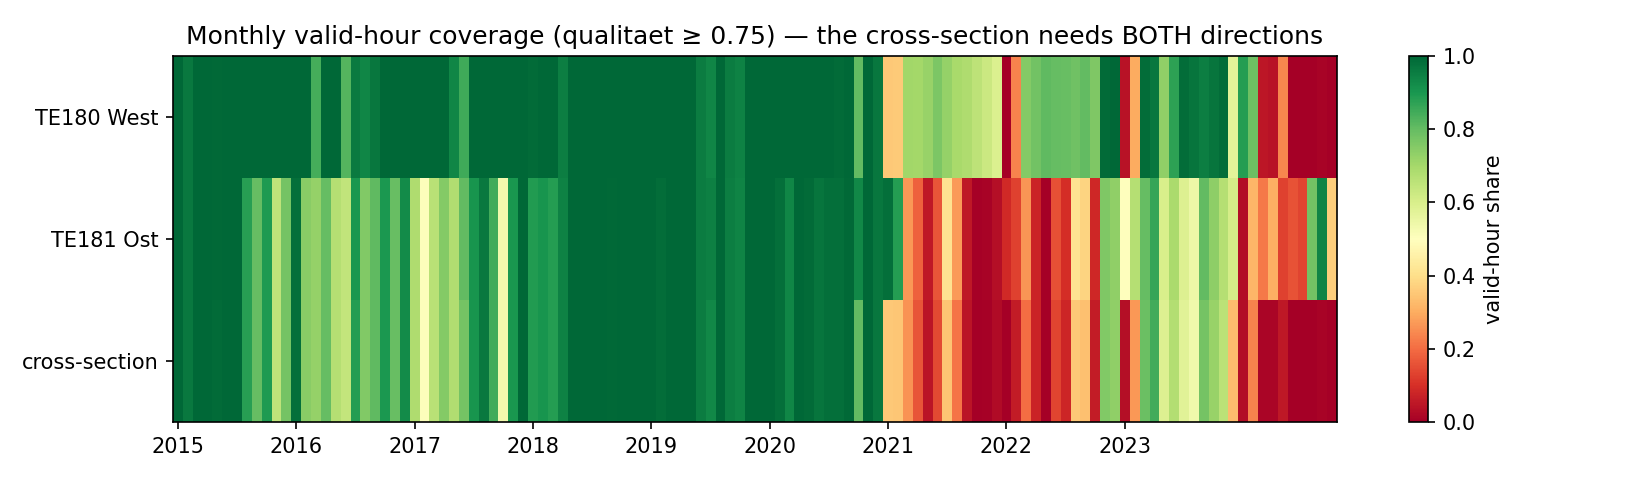
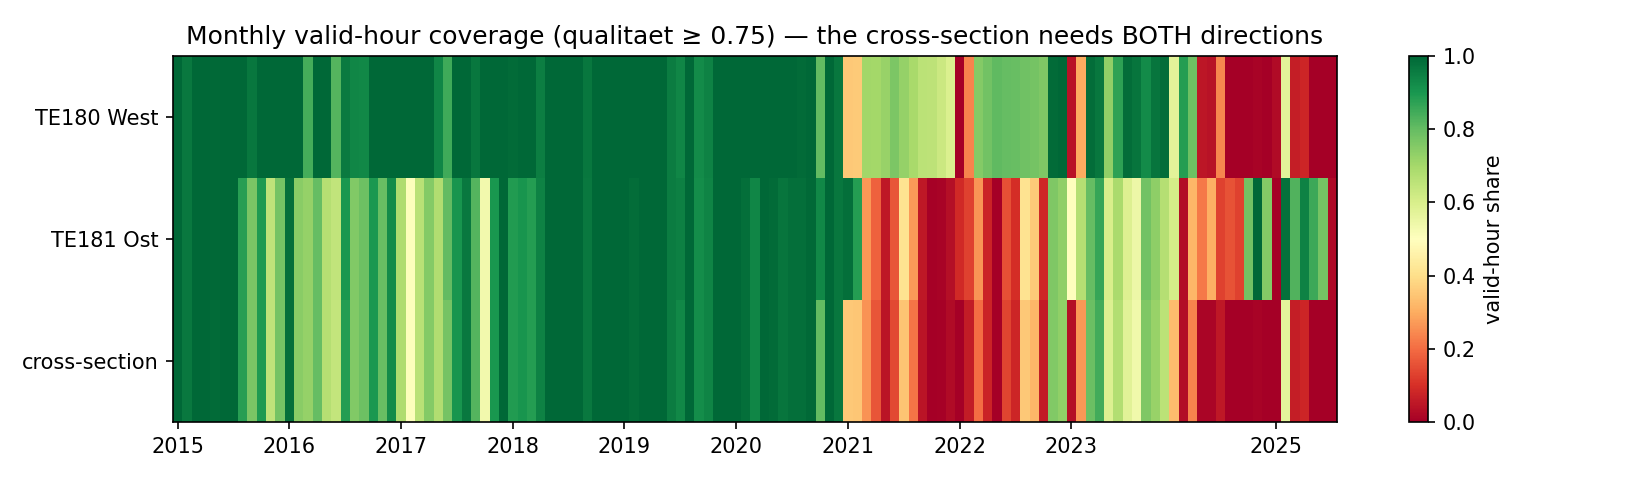
torstrasse-peak-hour: marathon correction + latest FROST SensorThings tail
The Berlin Marathon runs ALONG Torstraße (~km 7) — on race Sundays the
closed street's infrared detectors count the RUNNERS (near-zero closure
hour, then 1,000-2,400 'Kfz/h' at 3-10 km/h runner pace or 69-84 km/h
misreads; signature on every race Sunday 2015-2023). All marathon dates
are now excluded: 2018's apparent annual max (2,275) was runners, not
detour traffic; corrected q1 2018 = 1,739. q30/q50 move <0.2% — the
design-hour metrics were already robust to it.

Also extends the series past the blob archive with the frozen TEU FROST
SensorThings hourly MQ streams (fetch_frost.py, un-QA'd, 2024-11 ->
2025-07; TE180 dies 2025-04-13, TE181 2025-07-02 = end of the series).
2025 row added (10% coverage, flagged unusable); blob rows win on
overlap and QA-rejected hours are not resurrected.

te180-deepdive: note that its 2023-09-24 artefact cluster was marathon
Sunday too.

diff --git a/berlin-traffic-groundwork/torstrasse-peak-hour/fetch_frost.py b/berlin-traffic-groundwork/torstrasse-peak-hour/fetch_frost.py
@@ -1,0 +1,119 @@
+#!/usr/bin/env python3
+"""Fetch the LATEST hourly Messquerschnitt observations for TE180/TE181 from
+the legacy TEU SensorThings (FROST) API — the blob archive ends 2024-12, the
+FROST server carries observations into 2025 (TE180 to ~2025-04-13, TE181 to
+~2025-07-02; the TEU network is frozen, so this is the end of the series).
+
+Pulls 'Anzahl KFZ Stunde - Messquerschnitt', the matching speed stream and
+'Anzahl LKW Stunde - Messquerschnitt' from 2024-11-01 on (slightly overlapping
+the blob so analyze.py can prefer the QA-gated blob rows), converts UTC
+interval stamps to Berlin local date/hour, and writes
+data/torstrasse_frost_latest.csv in the same schema as the blob extract.
+
+NOTE: FROST observations carry NO 'qualitaet' field; rows are written with
+qualitaet = 1.0 and must be treated as un-QA'd (see README caveats).
+
+Gentle + idempotent: sequential, paged ($top=1000), ~0.4 s between requests;
+exits if the output exists (--force to refetch).
+"""
+
+import csv
+import json
+import sys
+import time
+import urllib.parse
+import urllib.request
+from pathlib import Path
+from zoneinfo import ZoneInfo
+
+BASE = "https://api.viz.berlin.de/FROST-Server-TEU/v1.1"
+SINCE = "2024-11-01T00:00:00Z"
+THINGS = {"TE180": 80, "TE181": 81}
+STREAMS = {  # column -> datastream name (note the double space in the API)
+    "q_kfz_mq_hr": "Anzahl KFZ Stunde -  Messquerschnitt",
+    "v_kfz_mq_hr": "Geschwindigkeit KFZ Stunde -  Messquerschnitt",
+    "q_lkw_mq_hr": "Anzahl LKW Stunde -  Messquerschnitt",
+}
+HERE = Path(__file__).parent
+OUT = HERE / "data" / "torstrasse_frost_latest.csv"
+PAUSE = 0.4
+BERLIN = ZoneInfo("Europe/Berlin")
+FIELDS = ["mq_name", "tag", "stunde", "qualitaet", "q_kfz_mq_hr",
+          "v_kfz_mq_hr", "q_pkw_mq_hr", "v_pkw_mq_hr", "q_lkw_mq_hr",
+          "v_lkw_mq_hr"]
+
+
+def get_json(url: str) -> dict:
+    for attempt in range(5):
+        try:
+            with urllib.request.urlopen(url, timeout=60) as r:
+                return json.load(r)
+        except Exception as e:  # noqa: BLE001
+            wait = 2 ** attempt * 5
+            print(f"  {type(e).__name__}: {e}, backing off {wait}s", flush=True)
+            time.sleep(wait)
+    raise RuntimeError(f"giving up on {url}")
+
+
+def find_datastream(thing_id: int, name: str) -> int:
+    q = urllib.parse.quote(f"name eq '{name}'")
+    d = get_json(f"{BASE}/Things({thing_id})/Datastreams?$filter={q}"
+                 f"&$select=@iot.id,name")
+    if not d["value"]:
+        raise RuntimeError(f"no datastream {name!r} on Thing({thing_id})")
+    return d["value"][0]["@iot.id"]
+
+
+def fetch_stream(ds_id: int) -> dict:
+    """{UTC interval-start ISO: result} with NaN-placeholder rows dropped."""
+    out = {}
+    url = (f"{BASE}/Datastreams({ds_id})/Observations?"
+           f"$filter=phenomenonTime%20ge%20{SINCE}"
+           f"&$orderby=phenomenonTime&$top=1000"
+           f"&$select=phenomenonTime,result")
+    while url:
+        d = get_json(url)
+        for o in d["value"]:
+            start = o["phenomenonTime"].split("/")[0]
+            r = o["result"]
+            if r is not None and out.get(start) is None:
+                out[start] = r
+            out.setdefault(start, r)
+        url = d.get("@iot.nextLink")
+        time.sleep(PAUSE)
+    return out
+
+
+def main() -> None:
+    if OUT.exists() and "--force" not in sys.argv:
+        print(f"{OUT} exists - nothing to do (--force to refetch)")
+        return
+    from datetime import datetime
+
+    rows = {}
+    for mq, tid in THINGS.items():
+        for col, name in STREAMS.items():
+            ds = find_datastream(tid, name)
+            obs = fetch_stream(ds)
+            print(f"{mq} {col}: datastream {ds}, {len(obs)} hours", flush=True)
+            for iso, val in obs.items():
+                loc = datetime.fromisoformat(iso.replace("Z", "+00:00")) \
+                    .astimezone(BERLIN)
+                key = (mq, loc.strftime("%d.%m.%Y"), loc.hour)
+                rows.setdefault(key, {})[col] = val
+            time.sleep(PAUSE)
+
+    with OUT.open("w", newline="") as fh:
+        w = csv.DictWriter(fh, fieldnames=FIELDS, delimiter=";")
+        w.writeheader()
+        for (mq, tag, stunde), vals in sorted(rows.items()):
+            if vals.get("q_kfz_mq_hr") is None:
+                continue                      # placeholder-only hour
+            w.writerow({"mq_name": mq, "tag": tag, "stunde": stunde,
+                        "qualitaet": 1.0, **vals})
+    n = sum(1 for _ in OUT.open()) - 1
+    print(f"wrote {OUT} ({n} rows)")
+
+
+if __name__ == "__main__":
+    main()

diff --git a/berlin-traffic-groundwork/torstrasse-peak-hour/analyze.py b/berlin-traffic-groundwork/torstrasse-peak-hour/analyze.py
@@ -41,6 +41,16 @@ REF_YEAR = 2019           # last pre-COVID year, both directions ~98 %
 BANDS = [(0, 400), (400, 1000), (800, 1800), (1600, 2600), (2600, 3400)]
 BAND_LABELS = ["< 400", "400-1,000", "800-1,800", "1,600-2,600", "> 2,600"]
 
+# The BMW Berlin-Marathon runs ALONG Torstrasse (Reinhardtstr. -> Torstr. ->
+# Karl-Marx-Allee, ~km 7). On race Sundays the street is closed and the
+# infrared detectors count RUNNERS (counts at 3-10 km/h "speeds", or with
+# absurd 69-84 km/h misreads, after a near-zero closure hour) -> the whole
+# day is invalid as vehicle data. 2020 was cancelled (COVID).
+MARATHON_SUNDAYS = pd.to_datetime([
+    "2015-09-27", "2016-09-25", "2017-09-24", "2018-09-16", "2019-09-29",
+    "2021-09-26", "2022-09-25", "2023-09-24", "2024-09-29", "2025-09-21",
+])
+
 
 def berlin_holidays(year: int) -> set:
     e = easter(year)
@@ -65,10 +75,23 @@ def berlin_holidays(year: int) -> set:
 def load() -> pd.DataFrame:
     df = pd.read_csv(HERE / "data" / "torstrasse_mq_hr.csv", sep=";")
     df["date"] = pd.to_datetime(df["tag"], format="%d.%m.%Y")
+    key = ["mq_name", "date", "stunde"]
+    # keys the QA'd archive has SEEN (incl. hours its QA rejected) — the
+    # un-QA'd FROST tail must not resurrect QA-rejected hours
+    seen = set(map(tuple, df[key].itertuples(index=False)))
     df = df[(df["qualitaet"] >= QUALITY_MIN) & df["q_kfz_mq_hr"].notna()]
     # collapse rare duplicate (mq,date,hour) rows, keep the better-quality one
     df = (df.sort_values("qualitaet")
-            .drop_duplicates(["mq_name", "date", "stunde"], keep="last"))
+            .drop_duplicates(key, keep="last"))
+    # append the un-QA'd FROST tail (2024-11 ..; see fetch_frost.py) only for
+    # (mq, date, hour) slots the blob archive never covered
+    frost_csv = HERE / "data" / "torstrasse_frost_latest.csv"
+    if frost_csv.exists():
+        fr = pd.read_csv(frost_csv, sep=";")
+        fr["date"] = pd.to_datetime(fr["tag"], format="%d.%m.%Y")
+        fr = fr[fr["q_kfz_mq_hr"].notna()]
+        fr = fr[~fr[key].apply(tuple, axis=1).isin(seen)]
+        df = pd.concat([df, fr], ignore_index=True)
     kfz = df.pivot(index=["date", "stunde"], columns="mq_name",
                    values="q_kfz_mq_hr")
     lkw = df.pivot(index=["date", "stunde"], columns="mq_name",
@@ -83,10 +106,11 @@ def load() -> pd.DataFrame:
     # flagged contaminated via the scrub share and excluded from year metrics.
     wide["cross_raw"] = wide["west"] + wide["ost"]      # pre-scrub, for fig 03
     scrub = {}
+    marathon = wide["date"].isin(MARATHON_SUNDAYS)
     for c in ("west", "ost"):
-        bad = wide[c] > SCRUB_MAX
+        bad = wide[c] > SCRUB_MAX            # artefact scrub (counted)
         scrub[c] = wide.loc[bad].groupby("year")[c].size().to_dict()
-        wide.loc[bad, c] = np.nan
+        wide.loc[bad | marathon, c] = np.nan  # marathon Sundays: runners, not Kfz
     wide["cross"] = wide["west"] + wide["ost"]          # NaN unless both valid
     wide["dow"] = wide["date"].dt.dayofweek
     hols = set().union(*(berlin_holidays(y) for y in range(2015, 2025)))

diff --git a/berlin-traffic-groundwork/torstrasse-peak-hour/README.md b/berlin-traffic-groundwork/torstrasse-peak-hour/README.md
@@ -17,8 +17,9 @@ defining how to measure it, and that at least **nine operationalisations**
 circulate (n-th-highest hour, standardised counts, DTV shortcuts, …). Here we
 compute **all of them on one real street**: Torstraße (Berlin-Mitte), using
 the **TE180 (West) + TE181 (Ost)** lane-detector cross-sections as a synthetic
-RASt cross-section, hourly 2015-2024, plus **30 years of official DTV/DTVw map
-editions (1993-2023)** for the shortcut definitions.
+RASt cross-section, hourly 2015 → mid-2025 (blob archive + the frozen TEU
+SensorThings tail), plus **30 years of official DTV/DTVw map editions
+(1993-2023)** for the shortcut definitions.
 
 For the reference year **2019** (98 % coverage, pre-COVID, both directions
 clean), every *measured* definition lands in a tight cluster:
@@ -51,22 +52,31 @@ clean), every *measured* definition lands in a tight cluster:
 | | |
 |---|---|
 | Directional MQs | `TE180` Torstraße Haus 199, **Richtung West** (2 lanes) · `TE181` Haus 178, **Richtung Ost** (2 lanes) — ~170 m apart, two side streets in between |
-| Source | blob archive `…/alte_qualitaetssicherung/Messquerschnitte/mq_hr_YYYY_MM.csv.gz`, hourly, local time; validity gate `qualitaet ≥ 0.75` (archive convention) |
+| Source | blob archive `…/alte_qualitaetssicherung/Messquerschnitte/mq_hr_YYYY_MM.csv.gz`, hourly, local time; validity gate `qualitaet ≥ 0.75` (archive convention) — extended past 2024-12 with the **frozen TEU SensorThings (FROST) hourly MQ streams** (`fetch_frost.py`; un-QA'd, only for slots the archive never covered) |
 | Cross-section rule | `cross = west + ost`, **only for hours where both directions are valid** — RASt 06's default reference is the both-directions cross-section |
-| Window | 2015-01 → 2024-12; **usable for year metrics: 2018, 2019, 2020** (see below) |
+| Window | 2015-01 → 2025-07 (TE180's last observation 2025-04-13, TE181's 2025-07-02 — the TEU network is being decommissioned, so this is the **end of the series**); **usable for year metrics: 2018, 2019, 2020** (see below) |
 | Vehicle class | `q_kfz` (all motor vehicles) — RASt-faithful, unlike the PKW-only [`te180-deepdive`](../te180-deepdive/) |
 
-Two data-quality interventions, both visible in the figures:
+Three data-quality interventions, all visible in the figures:
 
 1. **Plausibility scrub.** Directional hours > 1,300 Kfz/h are sensor
    artefacts (clean-period envelope max ≈ 1,230): the flagged hours show
    3,400-4,100 Kfz/h at 8-12 km/h crawl speeds — including 3,835 Kfz/h at
    **4 a.m.** They are set to missing (counts per year in `summary.json`).
-2. **2015-2017 excluded as contaminated.** TE181's *bulk* is inflated in
+2. **Marathon Sundays excluded.** The BMW Berlin-Marathon course runs
+   **along Torstraße** (Reinhardtstr. → Torstraße → Karl-Marx-Allee, ~km 7).
+   On race Sundays the closed street's infrared detectors **count the
+   runners**: a near-zero closure hour (e.g. 26 Kfz at 08 h on 2018-09-16),
+   then 1,000-2,400 "Kfz/h" from ~09:30 as the field passes — at runner-pace
+   "speeds" of 3-10 km/h, or with absurd 69-84 km/h misreads. The signature
+   recurs on **every** race Sunday 2015-2023 in the data, so all marathon
+   dates are dropped wholesale (2020 was cancelled). Without this, 2018's
+   "annual maximum" would be 2,275 runner-counted Kfz/h.
+3. **2015-2017 excluded as contaminated.** TE181's *bulk* is inflated in
    those years (6.5-14.8 % of hours above 1,300; median 15-h-hour 2016: 903
    vs ~640 in clean years) — no scrub can repair an inflated bulk, so these
-   years carry no cross-section metrics. 2021-2024 fail on **coverage**
-   instead (TE181 ≤ 28 % valid hours from 2021; TE180 dies mid-2024).
+   years carry no cross-section metrics. 2021-2025 fail on **coverage**
+   instead (TE181 ≤ 28 % valid hours from 2021; TE180 dies April 2025).
 
 ![coverage](figures/01_coverage.png)
 
@@ -112,13 +122,14 @@ The flat top has a second consequence: missing-data bias is tiny. With ≥ 97 %
 coverage, the coverage-proportional rank correction (`q50_adj`) changes
 nothing (1,557 → 1,557 in 2019).
 
-**q1 is event-driven, which is exactly why the formal definitions skip it:**
-2018's absolute maximum (2,275 Kfz/h, +44 % over q30) is **Sunday 16 Sep
-2018, 10:00 — Berlin-Marathon day**, detour traffic with both directions at
-their annual extreme simultaneously. The 2019 marathon Sunday (29 Sep)
-appears too — as the year's only *scrubbed* hours (2,374 Kfz/h "measured" at
-5 km/h): stop-and-go traffic made the infrared detector miscount. One street,
-two marathons, one valid extreme and one artefact.
+**q1 is noise-dominated, which is exactly why the formal definitions skip
+it:** before the marathon exclusion, 2018's apparent annual maximum
+(2,275 Kfz/h, +44 % over q30) was **Sunday 16 Sep 2018, 10:00 — the detector
+counting the Berlin-Marathon field running down the closed street** (the race
+passes Torstraße at ~km 7). With marathon Sundays removed, every year's q1
+drops to within ~6-10 % of q30 (2018: 1,739, an ordinary pre-Christmas Friday
+afternoon) — the absolute maximum of a *valid* year carries no information the
+30th hour doesn't.
 
 ![definitions by year](figures/04_definitions_by_year.png)
 
@@ -195,9 +206,18 @@ DTV shortcuts jump the fence into 1,600-2,600.
   map-consistent.
 - The MQs cover the main carriageway lanes (HF1/HF2) per direction; TEU
   infrared classification of Lkw is approximate, two-wheelers unreliable.
-- 2015-2017 (TE181 bulk contamination) and 2021-2024 (coverage collapse;
-  TE181 ≤ 28 %, TE180 dead from mid-2024) carry no headline metrics. 2020 is
-  a COVID year — shown, but atypical (everything ~12 % below 2019).
+- 2015-2017 (TE181 bulk contamination) and 2021-2025 (coverage collapse;
+  TE181 ≤ 28 %, TE180 dead from April 2025) carry no headline metrics. 2020
+  is a COVID year — shown, but atypical (everything ~12 % below 2019).
+- **The 2024-11 → 2025-07 tail from the FROST SensorThings API is un-QA'd**
+  (no `qualitaet` field; blob rows win wherever both exist, and FROST never
+  fills hours the blob QA rejected). TE181's late counts look degraded
+  (workday levels far below earlier years, speed stream half-missing), so the
+  2025 row in the table is indicative only — it is also the series' end:
+  Torstraße has no live successor detector (no ThermiCam site).
+- Other street-closing events (half-marathon, demonstrations, roadworks) are
+  *not* systematically excluded — only the marathon's runner-count signature
+  was identified and removed. Residual event noise remains in q1.
 - The archive's historical data was reworked in 2025; numbers may differ from
   older pulls. Berlin holiday calendar (incl. one-offs 2017-10-31, 2020-05-08
   and Frauentag from 2019) is implemented in `analyze.py`.
@@ -209,6 +229,7 @@ DTV shortcuts jump the fence into 1,600-2,600.
 ```bash
 cd berlin-traffic-groundwork/torstrasse-peak-hour
 python3 fetch.py        # 120 monthly MQ bundles, sequential + cached (~8 min)
+python3 fetch_frost.py  # un-QA'd 2024-11..2025-07 tail from the FROST API
 python3 fetch_dtv.py    # 8 WFS queries for the 1993-2023 editions
 python3 analyze.py      # pure function of the cached CSVs -> figures + summary.json
 ```
@@ -222,6 +243,12 @@ needs no network.
 - Detector archive: [DPS — Verkehrsdetektion](https://api.viz.berlin.de/daten/verkehrsdetektion)
   (blob container `verkehrsdetektion`, alte QS Messquerschnitte) ·
   [open-data record](https://daten.berlin.de/datensaetze/verkehrsdetektion-berlin)
+- Latest tail: TEU SensorThings `https://api.viz.berlin.de/FROST-Server-TEU/v1.1`
+  — Things(80)/(81) = TE180/TE181, hourly MQ datastreams
+  ("Anzahl/Geschwindigkeit KFZ Stunde - Messquerschnitt", ids 8714/8720/8738
+  and 8822/8828/8846)
+- Marathon course along Torstraße: [BMW Berlin-Marathon — course](https://www.bmw-berlin-marathon.com/en/your-race/course) ·
+  [Tagesspiegel — Strecke und Sperrungen 2018](https://www.tagesspiegel.de/berlin/strecke-und-sperrungen-des-berlin-marathons-2018-5532010.html)
 - Official volumes (WFS, gdi.berlin.de): `ua_verkehrsmengen_{1993,1998,2005,2009,2014,2019}` ·
   `verkehrsmengen_2019:dtvw2019kfz` · `verkehrsmengen_2023:dtvw2023kfz`
 - DTVw→DTV factor 0.91 & RLS-19 M-values: [SenUMVK, Hinweise und Faktoren zur Umrechnung von Verkehrsmengen, 04/2022 (PDF)](https://www.berlin.de/sen/uvk/_assets/verkehr/verkehrsdaten/umrechungsfaktoren-von-verkehrsmengen/hinweise-und-faktoren-zur-umrechnung-von-verkehrsmengen.pdf)

diff --git a/berlin-traffic-groundwork/te180-deepdive/README.md b/berlin-traffic-groundwork/te180-deepdive/README.md
@@ -234,6 +234,11 @@ collapses to a crawl (~3–17 km/h) — e.g. `2023-07-28 21:05–21:10` (172, 16
 ~16 km/h) and `2023-09-24 08:10–08:35` (122–162 PKW at 2.6–9 km/h). High flow at
 crawl speed violates the speed–flow relation, and the ~300-car excess is not
 conserved against neighbouring slots, so these are **sensor miscounts, not traffic**.
+(The `2023-09-24` cluster has a nameable cause: that Sunday was the **Berlin
+Marathon**, whose course runs **along Torstraße** — the detector is counting
+the running field on the closed street. The same signature appears on every
+race Sunday in the hourly archive; see
+[`../torstrasse-peak-hour/`](../torstrasse-peak-hour/).)
 `analyze.py` drops any count `> 110` (the clean body tops out ~100; p99.99 = 97) to
 missing before every figure/statistic, which is why the count max above is **100, not
 172**. This is the *only* value-validity fix the year needs.
